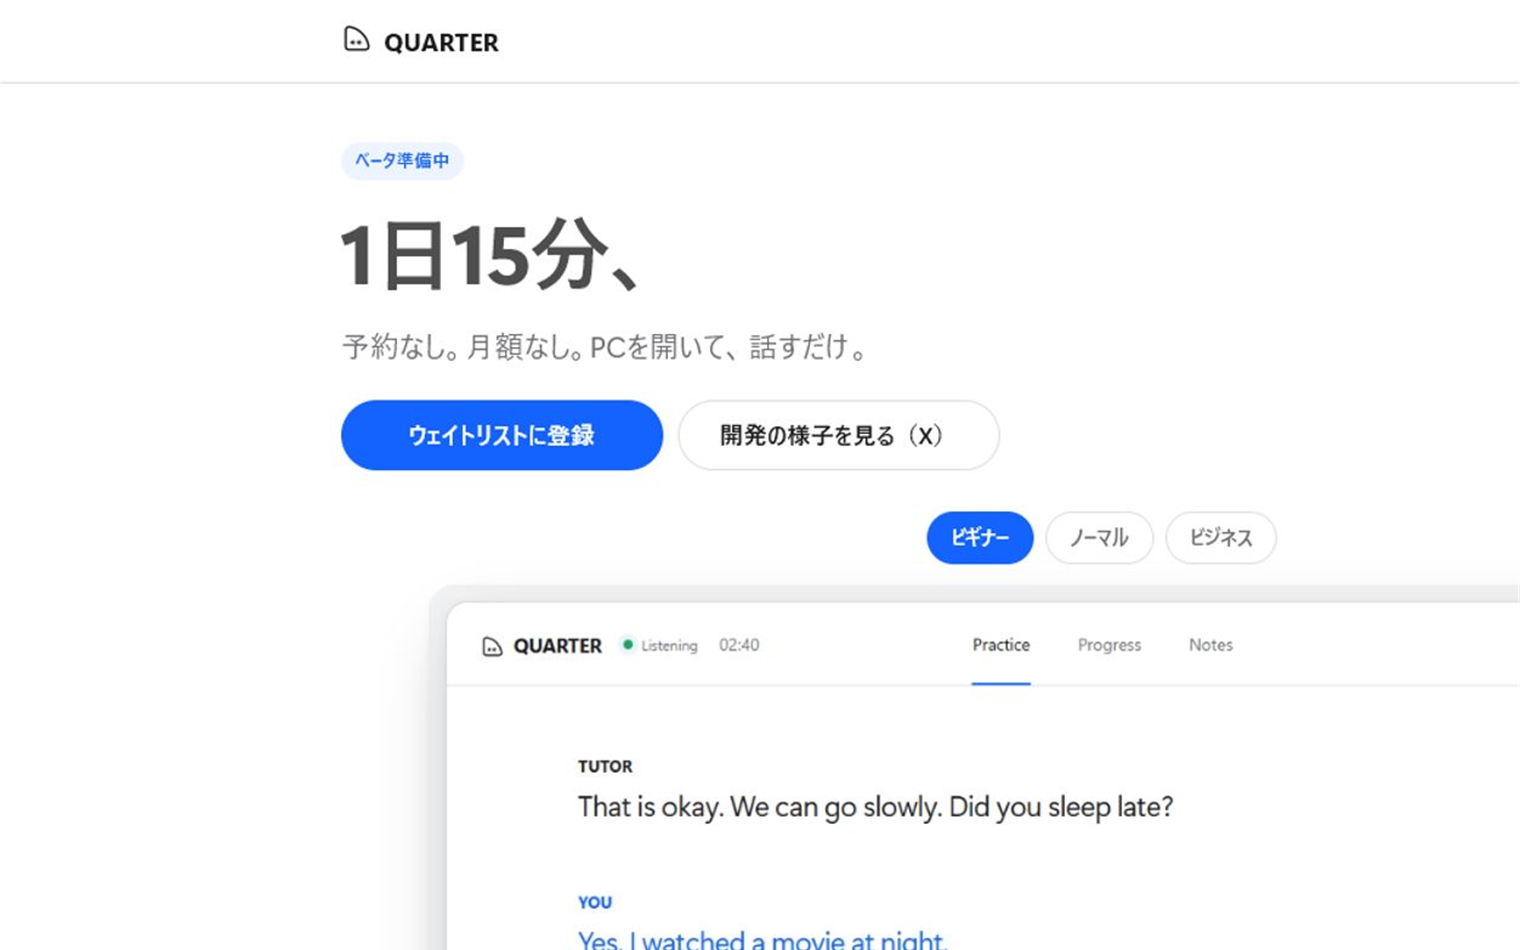
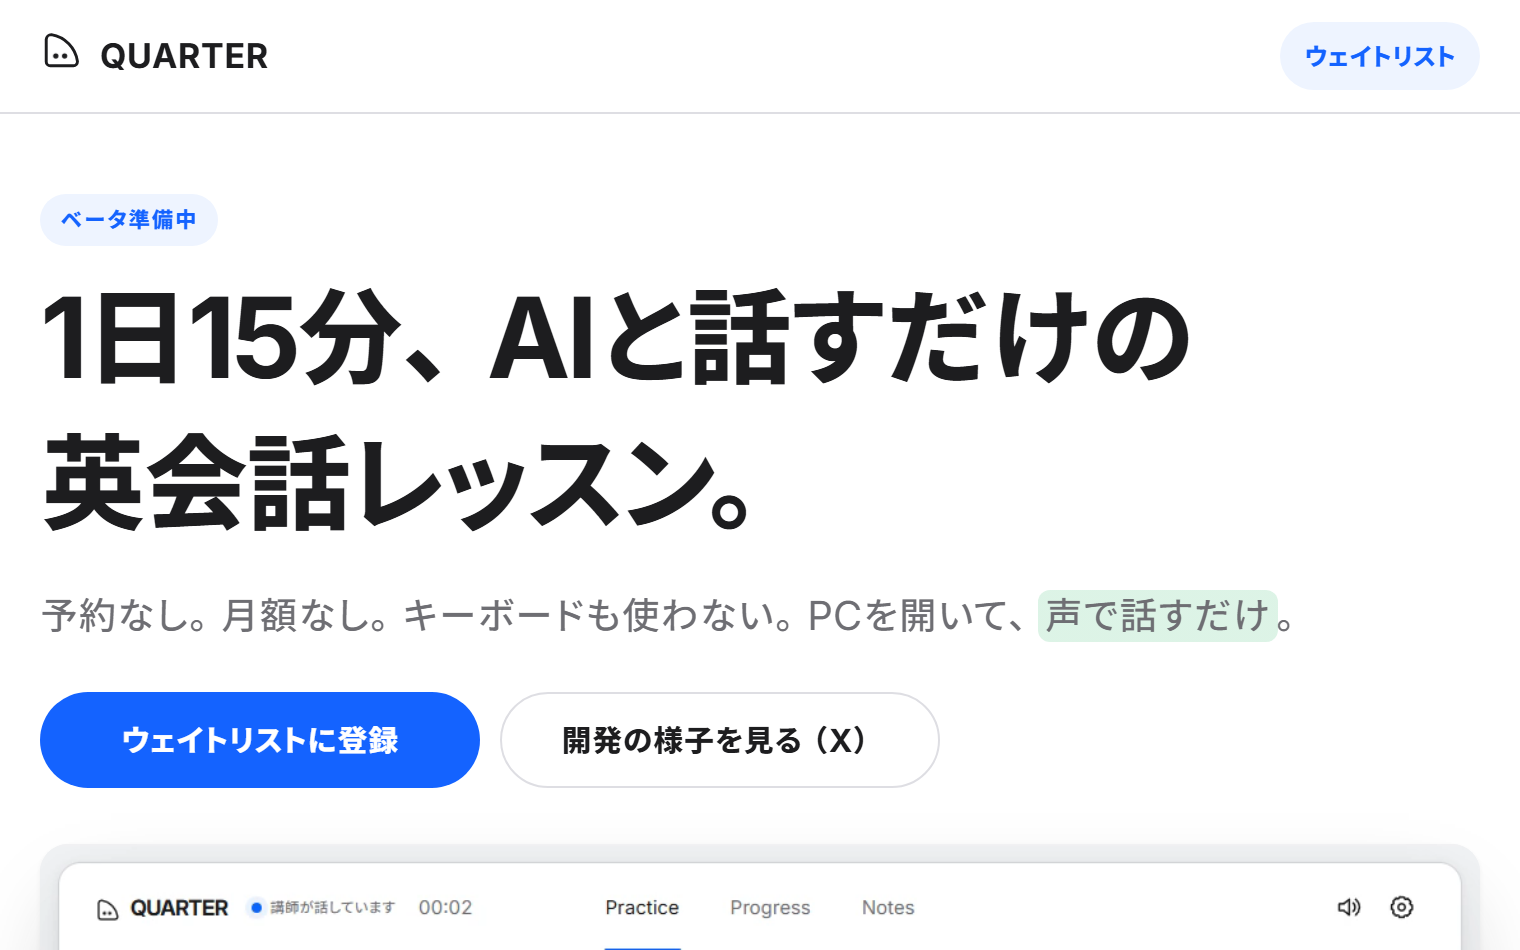
Split Works into main works and toy apps
- Feature QUARTER / SeichiMap / Dictation as main works (01-03)
- Demote Nabeatsu Calc. and Steam 16 Personalities to a compact
  image-free TOY APPS list
- Update QUARTER copy and screenshot to match the renewed LP

diff --git a/index.html b/index.html
@@ -67,7 +67,7 @@
           <span class="shot">
             <img src="assets/shots/quarter.png" alt="QUARTER landing page screenshot" loading="lazy" />
             <span class="ovl">
-              <span class="ovl-desc">1日15分、AIチューターと話すだけのデスクトップ英語レッスンアプリ。現在ベータ準備中。</span>
+              <span class="ovl-desc">1日15分、AIチューターと話すだけのデスクトップ英会話アプリ。予約なし、月額なし。現在ベータ準備中。</span>
               <span class="tags"><span>DESKTOP APP</span><span>#gemini</span><span>#voice</span><span>#markdown</span></span>
             </span>
           </span>
@@ -75,37 +75,6 @@
             <span class="num">01</span>
             <span class="ttl">QUARTER <span class="work-status">IN DEV</span></span>
             <span class="go">PREVIEW →</span>
-          </span>
-        </a>
-
-        <a class="work reveal" href="https://nabeatsu-calculator.vercel.app/" target="_blank"
-          rel="noopener noreferrer">
-          <span class="shot">
-            <img src="assets/shots/nabeatsu.png" alt="Nabeatsu Calc. screenshot" loading="lazy" />
-            <span class="ovl">
-              <span class="ovl-desc">答えが3の倍数または3を含む数字になると、アホになる電卓。🔊 音あり推奨。</span>
-              <span class="tags"><span>WEB APP</span><span>#javascript</span><span>#audio</span><span>#animation</span></span>
-            </span>
-          </span>
-          <span class="cap">
-            <span class="num">02</span>
-            <span class="ttl">Nabeatsu Calc.</span>
-            <span class="go">PLAY →</span>
-          </span>
-        </a>
-
-        <a class="work reveal" href="https://steam-sindan.vercel.app/" target="_blank" rel="noopener noreferrer">
-          <span class="shot">
-            <img src="assets/shots/steam.png" alt="Steam 16 Personalities screenshot" loading="lazy" />
-            <span class="ovl">
-              <span class="ovl-desc">Steamの公開プレイデータから16のゲーマータイプに分類する診断サービス。</span>
-              <span class="tags"><span>WEB APP</span><span>#gemini</span><span>#api</span></span>
-            </span>
-          </span>
-          <span class="cap">
-            <span class="num">03</span>
-            <span class="ttl">Steam 16 Personalities</span>
-            <span class="go">PLAY →</span>
           </span>
         </a>
 
@@ -118,7 +87,7 @@
             </span>
           </span>
           <span class="cap">
-            <span class="num">04</span>
+            <span class="num">02</span>
             <span class="ttl">SeichiMap</span>
             <span class="go">PLAY →</span>
           </span>
@@ -134,11 +103,36 @@
             </span>
           </span>
           <span class="cap">
-            <span class="num">05</span>
+            <span class="num">03</span>
             <span class="ttl">Dictation of the Day</span>
             <span class="go">PLAY →</span>
           </span>
         </a>
+      </div>
+
+      <div class="toy-group">
+        <h3 class="toy-head">
+          <span>TOY APPS</span>
+          <span class="toy-rule" aria-hidden="true"></span>
+        </h3>
+
+        <div class="toy-list">
+          <a class="toy reveal" href="https://nabeatsu-calculator.vercel.app/" target="_blank"
+            rel="noopener noreferrer">
+            <span class="toy-mark" aria-hidden="true">+</span>
+            <span class="toy-title">Nabeatsu Calc.</span>
+            <span class="toy-desc">答えが3の倍数か3を含むとアホになる電卓。音あり推奨。</span>
+            <span class="toy-go">PLAY →</span>
+          </a>
+
+          <a class="toy reveal" href="https://steam-sindan.vercel.app/" target="_blank"
+            rel="noopener noreferrer">
+            <span class="toy-mark" aria-hidden="true">+</span>
+            <span class="toy-title">Steam 16 Personalities</span>
+            <span class="toy-desc">Steamのプレイデータから16のゲーマータイプに分類する診断。</span>
+            <span class="toy-go">PLAY →</span>
+          </a>
+        </div>
       </div>
     </section>
 

diff --git a/style.css b/style.css
@@ -451,6 +451,101 @@ section.block {
   transform: translateX(3px);
 }
 
+/* smaller experiments, intentionally quieter than the main work grid */
+.toy-group {
+  margin-top: clamp(40px, 7vh, 72px);
+}
+
+.toy-head {
+  display: flex;
+  align-items: center;
+  gap: 12px;
+  margin: 0 0 8px;
+  font-family: var(--pixel);
+  font-size: 11px;
+  font-weight: 400;
+  letter-spacing: 0.16em;
+  color: var(--faint);
+}
+
+.toy-head .toy-rule {
+  flex: 1;
+  height: 1px;
+  background: var(--line);
+}
+
+.toy-list {
+  border-top: 1px solid var(--line);
+}
+
+.toy {
+  display: grid;
+  grid-template-columns: auto minmax(150px, 0.55fr) minmax(0, 1fr) auto;
+  align-items: baseline;
+  gap: 10px 16px;
+  min-height: 46px;
+  padding: 11px 2px;
+  border-bottom: 1px solid var(--line);
+  text-decoration: none;
+}
+
+.toy-mark {
+  font-family: var(--mono);
+  font-size: 10px;
+  color: var(--faint);
+  transition: color 0.18s;
+}
+
+.toy-title {
+  min-width: 0;
+  font-size: 13.5px;
+  font-weight: 500;
+  line-height: 1.5;
+  color: var(--ink);
+  white-space: nowrap;
+  overflow: hidden;
+  text-overflow: ellipsis;
+  transition: color 0.18s;
+}
+
+.toy-desc {
+  min-width: 0;
+  font-size: 11.5px;
+  line-height: 1.5;
+  color: var(--dim);
+  white-space: nowrap;
+  overflow: hidden;
+  text-overflow: ellipsis;
+}
+
+.toy-go {
+  font-family: var(--pixel);
+  font-size: 10.5px;
+  letter-spacing: 0.1em;
+  color: var(--faint);
+  white-space: nowrap;
+  transition: color 0.18s, transform 0.18s;
+}
+
+.toy:hover .toy-mark,
+.toy:hover .toy-title,
+.toy:hover .toy-go,
+.toy:focus-visible .toy-mark,
+.toy:focus-visible .toy-title,
+.toy:focus-visible .toy-go {
+  color: var(--blue);
+}
+
+.toy:hover .toy-go,
+.toy:focus-visible .toy-go {
+  transform: translateX(3px);
+}
+
+.toy:focus-visible {
+  outline: 1px solid var(--blue);
+  outline-offset: 3px;
+}
+
 /* ============================================================
    About
    ============================================================ */
@@ -759,6 +854,26 @@ footer {
   }
 
   .work-list { grid-template-columns: 1fr; gap: 28px; }
+
+  .toy-group { margin-top: 40px; }
+
+  .toy {
+    grid-template-columns: auto minmax(0, 1fr) auto;
+    gap: 2px 10px;
+    padding-block: 10px;
+  }
+
+  .toy-title { grid-column: 2; }
+
+  .toy-desc {
+    grid-column: 2 / -1;
+    grid-row: 2;
+  }
+
+  .toy-go {
+    grid-column: 3;
+    grid-row: 1;
+  }
 
   .about-grid { grid-template-columns: 1fr; gap: 28px; }
 
